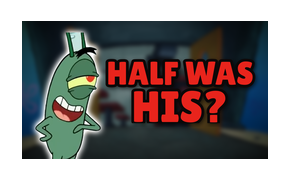
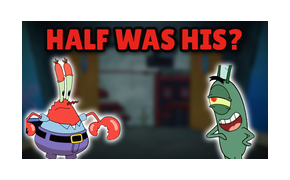
Thumbnail: Krabs and Plankton together
Claude-Session: https://claude.ai/code/session_019dHvfzMfbcC1GNSMjvXBdo

diff --git a/plankton-vs-krabs/tools/thumbnail2.py b/plankton-vs-krabs/tools/thumbnail2.py
@@ -117,7 +117,36 @@ def final():
     return c.convert("RGB")
 
 
+def final_duo():
+    """Krabs + Plankton cutouts facing each other, blurred dark episode background, red outlined text on top"""
+    bg = Image.open(os.path.join(ROOT, "thumb", "bg.png")).convert("RGB")
+    bg = ImageOps.fit(bg, (TW, TH), Image.LANCZOS).filter(ImageFilter.GaussianBlur(10))
+    a = np.asarray(bg).astype(np.float32) * 0.55
+    x = np.linspace(-1, 1, TW)[None, :, None]; y = np.linspace(-1, 1, TH)[:, None, None]
+    a *= 1 - 0.4 * np.clip(x ** 2 + y ** 2 - .2, 0, None)
+    c = Image.fromarray(np.clip(a, 0, 255).astype(np.uint8)).convert("RGBA")
+    kr = fit_h(trim(Image.open(os.path.join(ROOT, "thumb", "krabs_cut.png")).convert("RGBA")), 560)
+    pl = ImageOps.mirror(fit_h(trim(Image.open(os.path.join(ROOT, "thumb", "plankton_cut.png")).convert("RGBA")), 520))
+    gk, pk = glow(kr, radius=14, strength=1.5); gp, pp = glow(pl, radius=14, strength=1.5)
+    c.alpha_composite(gk, (20 - pk, TH - kr.height + 30 - pk))
+    c.alpha_composite(gp, (TW - pl.width - 70 - pp, TH - pl.height + 30 - pp))
+    t = text_block([("HALF WAS HIS?", 150)], os.path.join(F, "LilitaOne-Regular.ttf"),
+                   (232, 36, 28), 14, (12, 8, 8))
+    ts, tp = drop_shadow(t, 10, 200, (6, 8))
+    c.alpha_composite(ts, ((TW - t.width) // 2 - tp, 18 - tp))
+    return c.convert("RGB")
+
+
 if __name__ == "__main__":
+    os.makedirs(os.path.join(ROOT, "output"), exist_ok=True)
+    T = final_duo(); T.save(os.path.join(ROOT, "output", "thumbnail.png"))
+    chk = Image.new("RGB", (290, 180), (255, 255, 255)); chk.paste(T.resize((246, 138), Image.LANCZOS), (22, 21))
+    chk.save(os.path.join(ROOT, "output", "thumbnail_mobile_check.png"))
+    print("wrote output/thumbnail.png")
+    raise SystemExit
+
+
+if False:
     os.makedirs(os.path.join(ROOT, "output"), exist_ok=True)
     T = final(); T.save(os.path.join(ROOT, "output", "thumbnail.png"))
     chk = Image.new("RGB", (290, 180), (255, 255, 255)); chk.paste(T.resize((246, 138), Image.LANCZOS), (22, 21))
